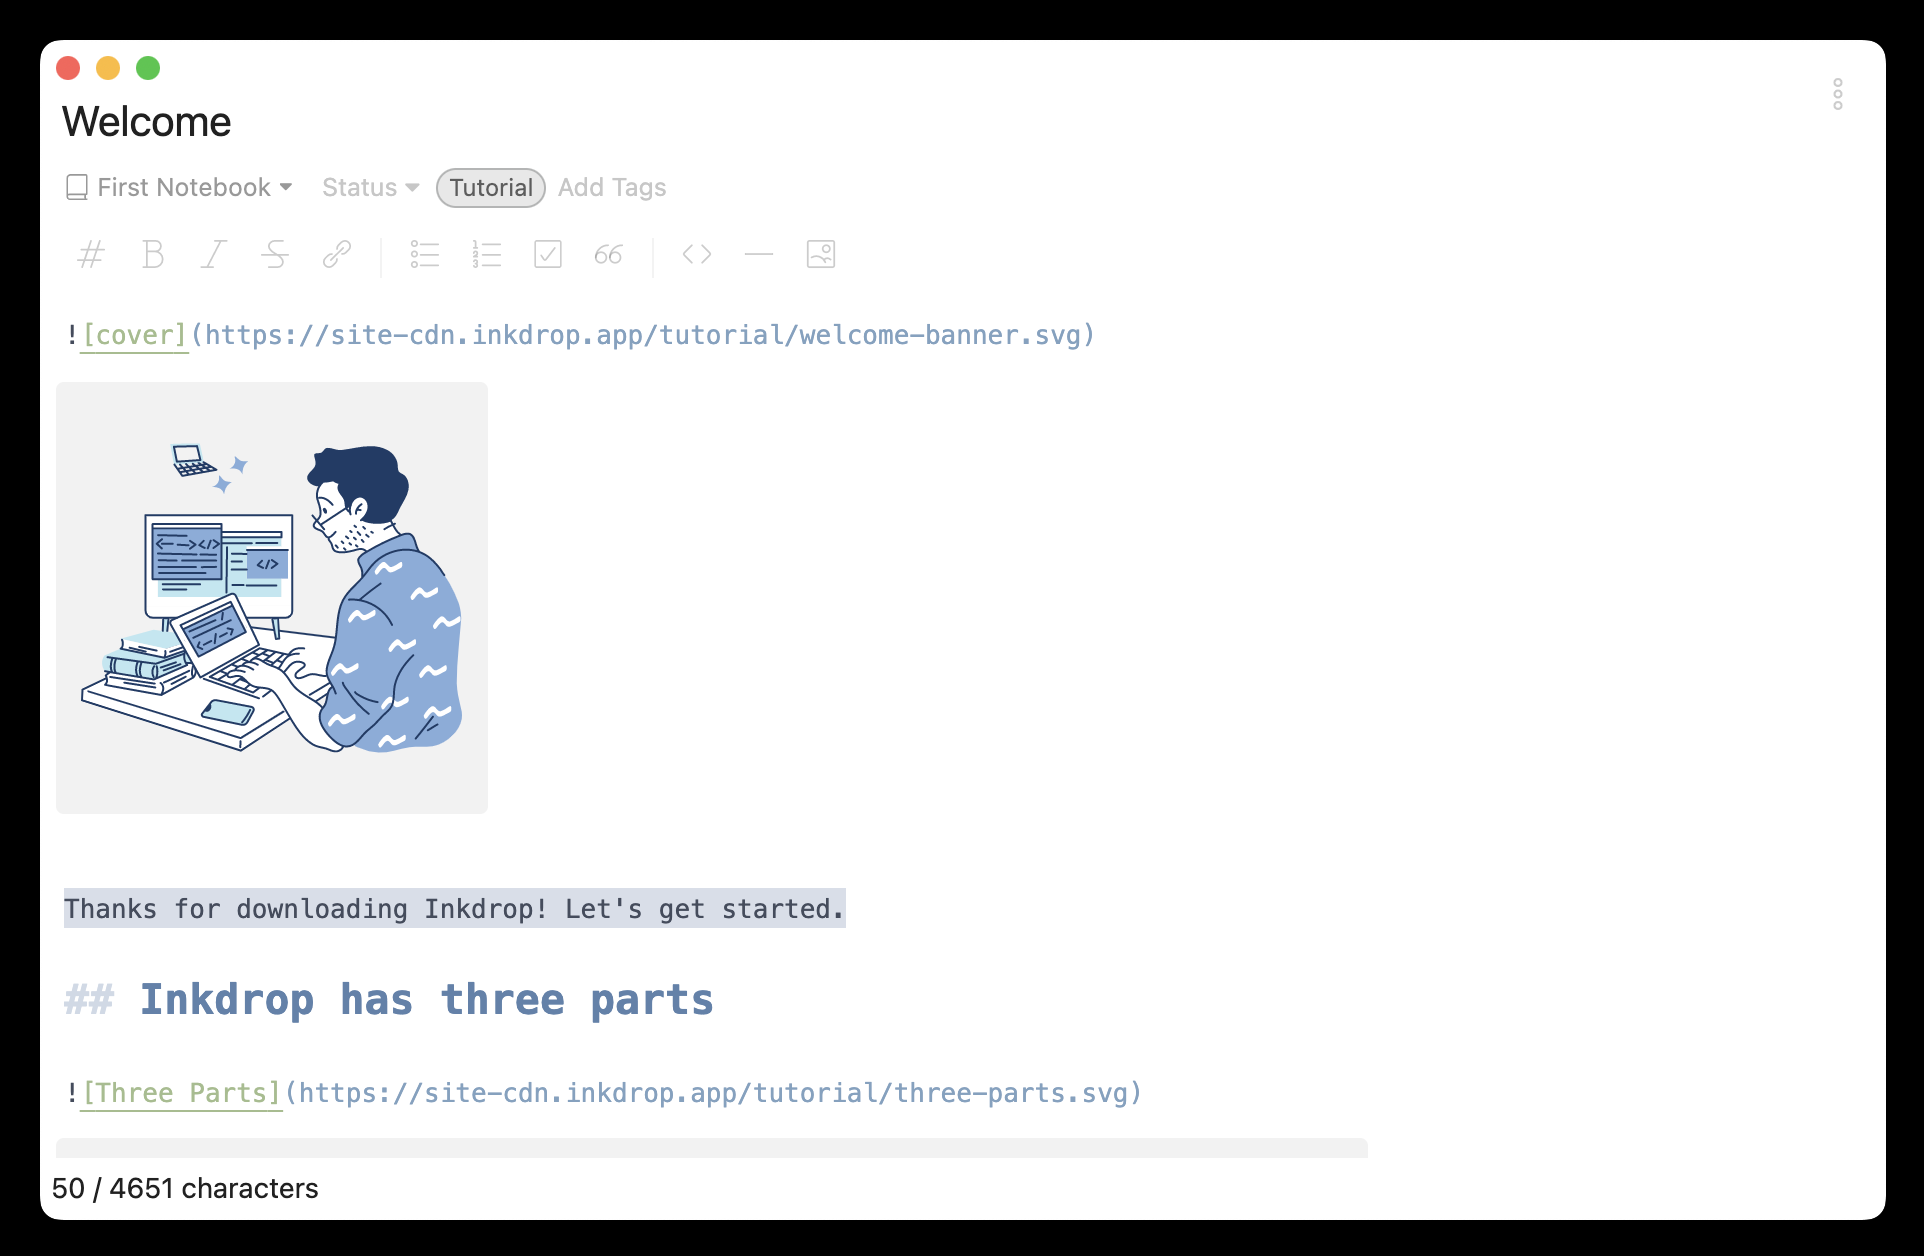
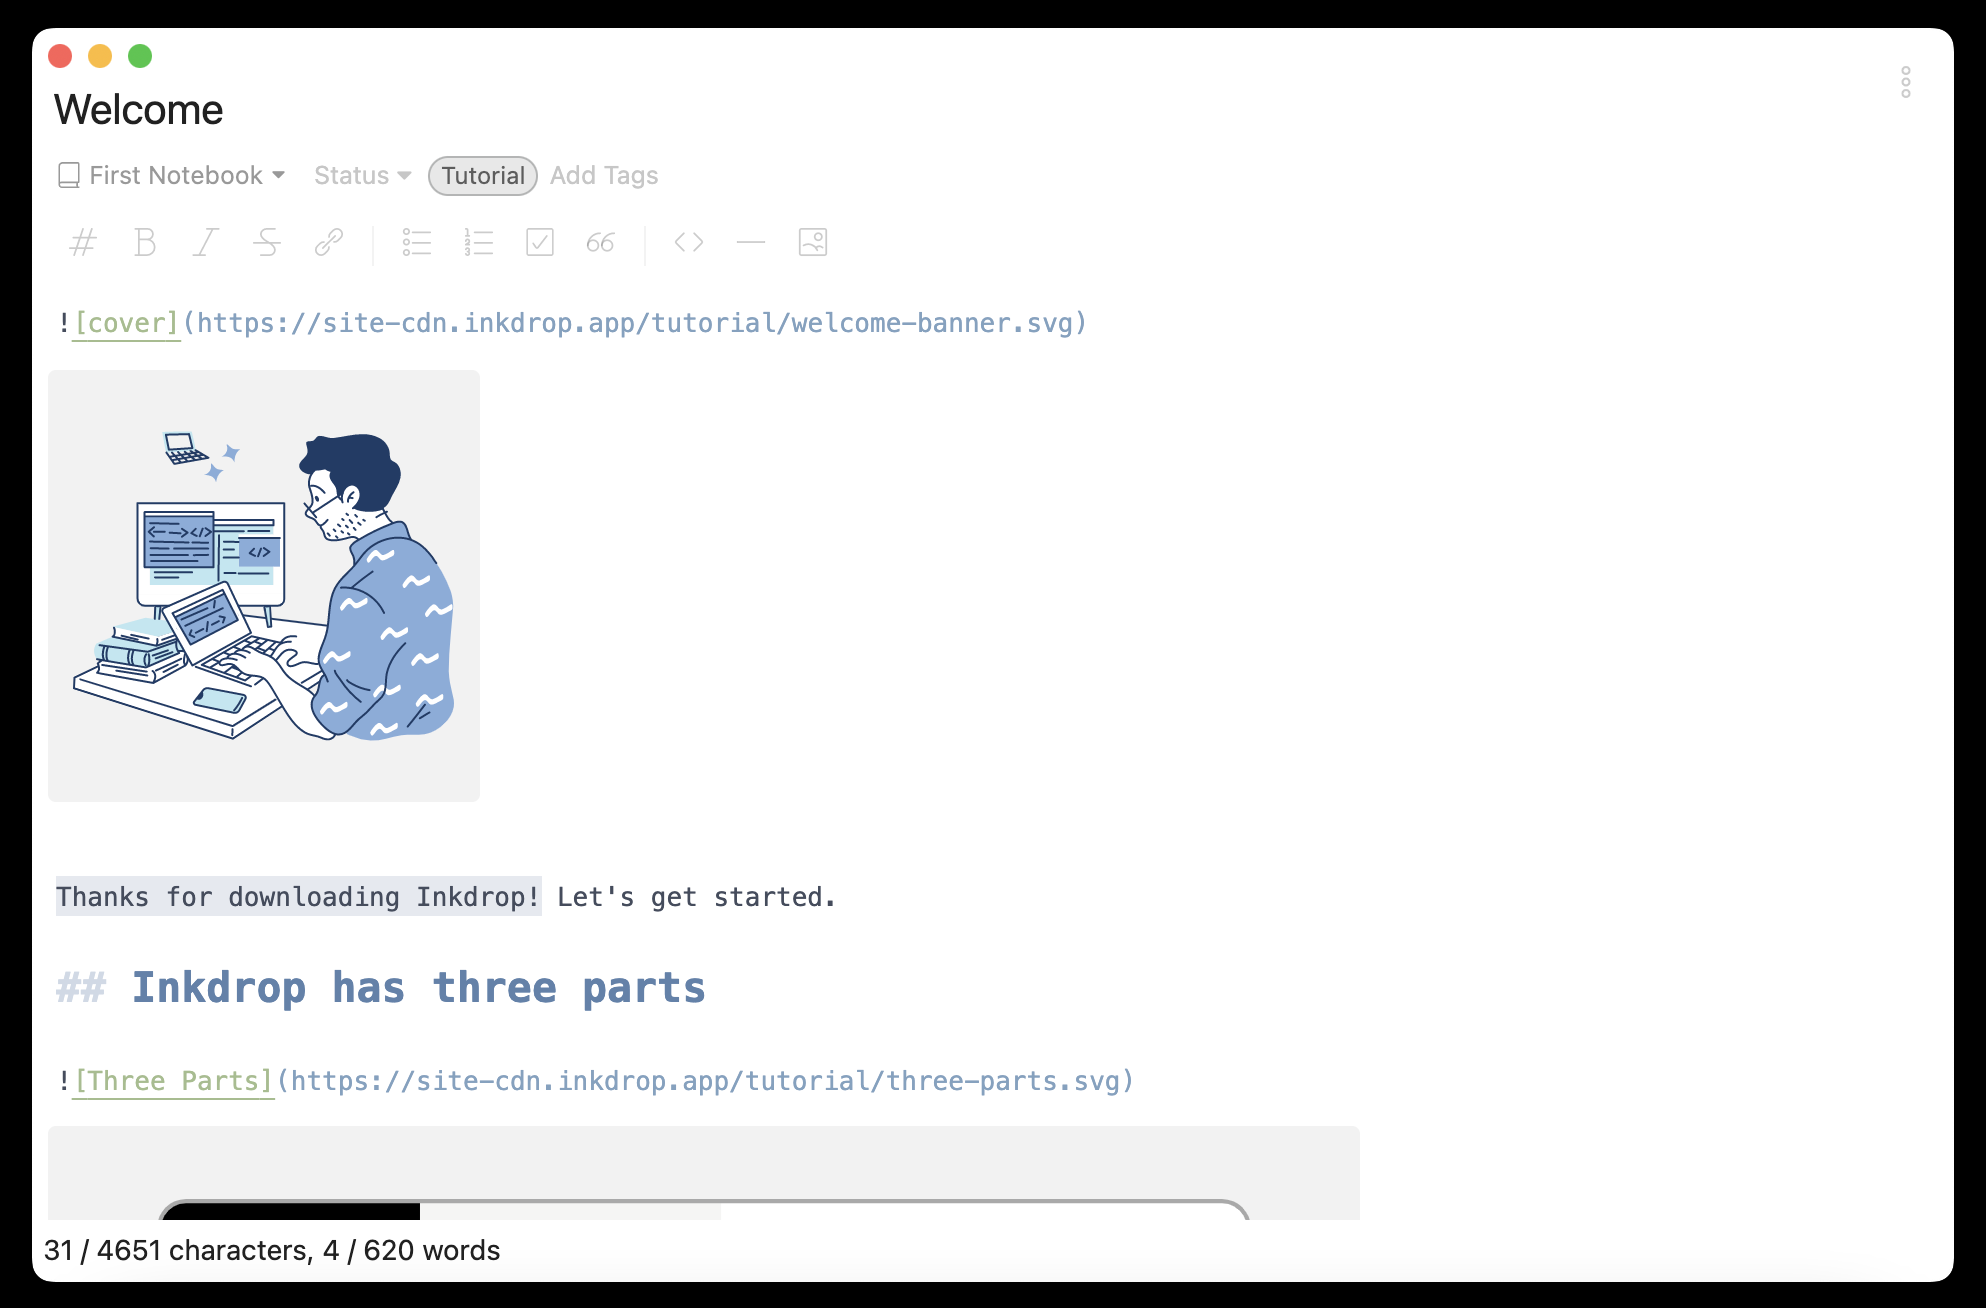
Update document

Changed region(s): [[0.0, 0.0, 0.9979, 0.9936]]

diff --git a/README.md b/README.md
@@ -4,8 +4,8 @@ An Inkdrop plugin that provides a function to count the number of characters
 
 ## Features
 
-- Display the number of characters in the text in the bottom status bar
-- If text is selected, display the number of characters in the selected text
+- Displays the number of characters and words in the text in the status bar at the bottom
+- When text is selected, the number of characters and words of the selected text are displayed in the status bar at the bottom
 
 ## Install
 

diff --git a/CHANGELOG.md b/CHANGELOG.md
@@ -1,5 +1,9 @@
 # CHANGELOG
 
+## 1.1.0 - Support counting words
+
+* Add a funciton to display the number of words
+
 ## 1.0.0 - First Release
 
 * Add a function to display the number of characters
